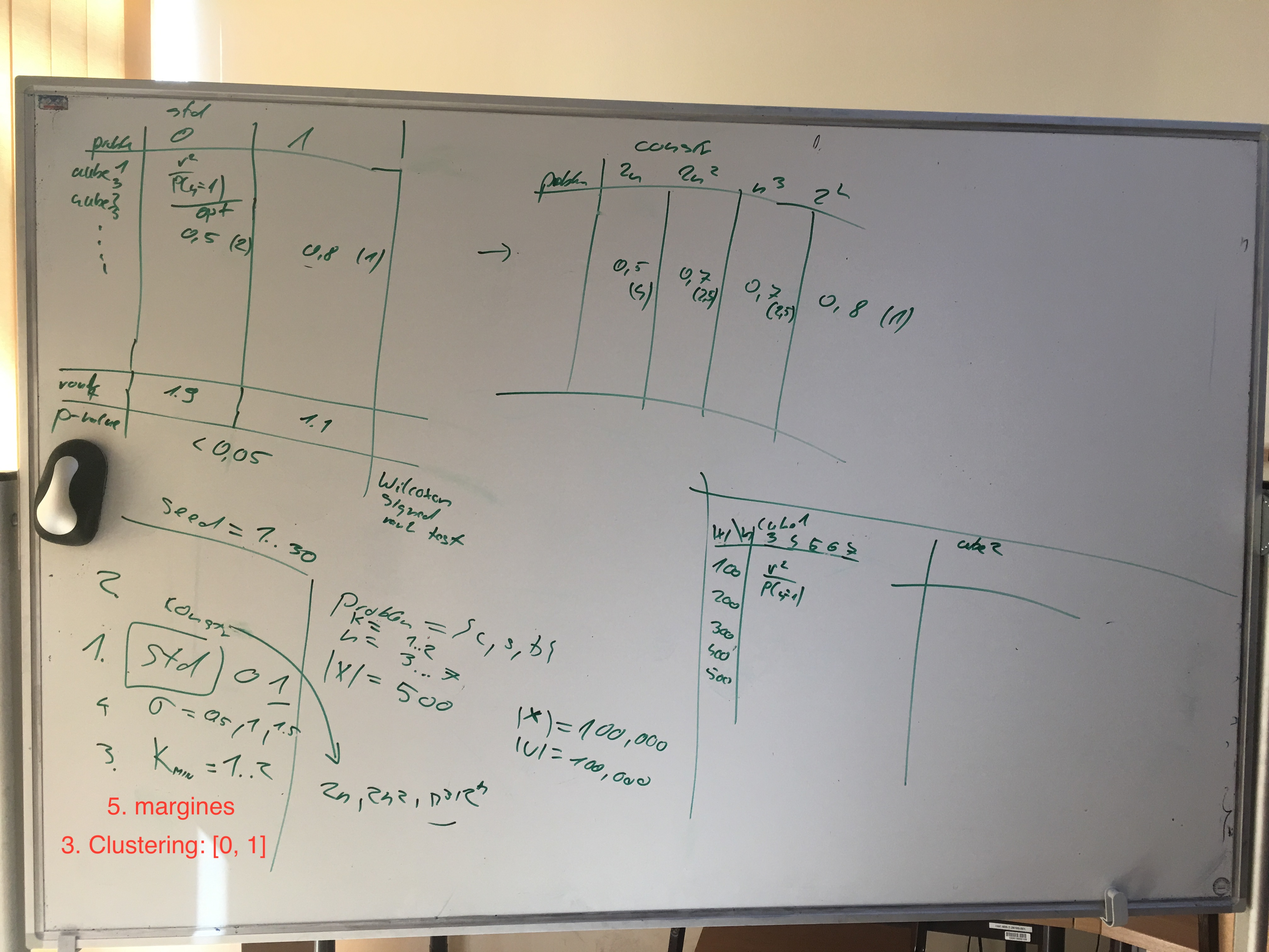
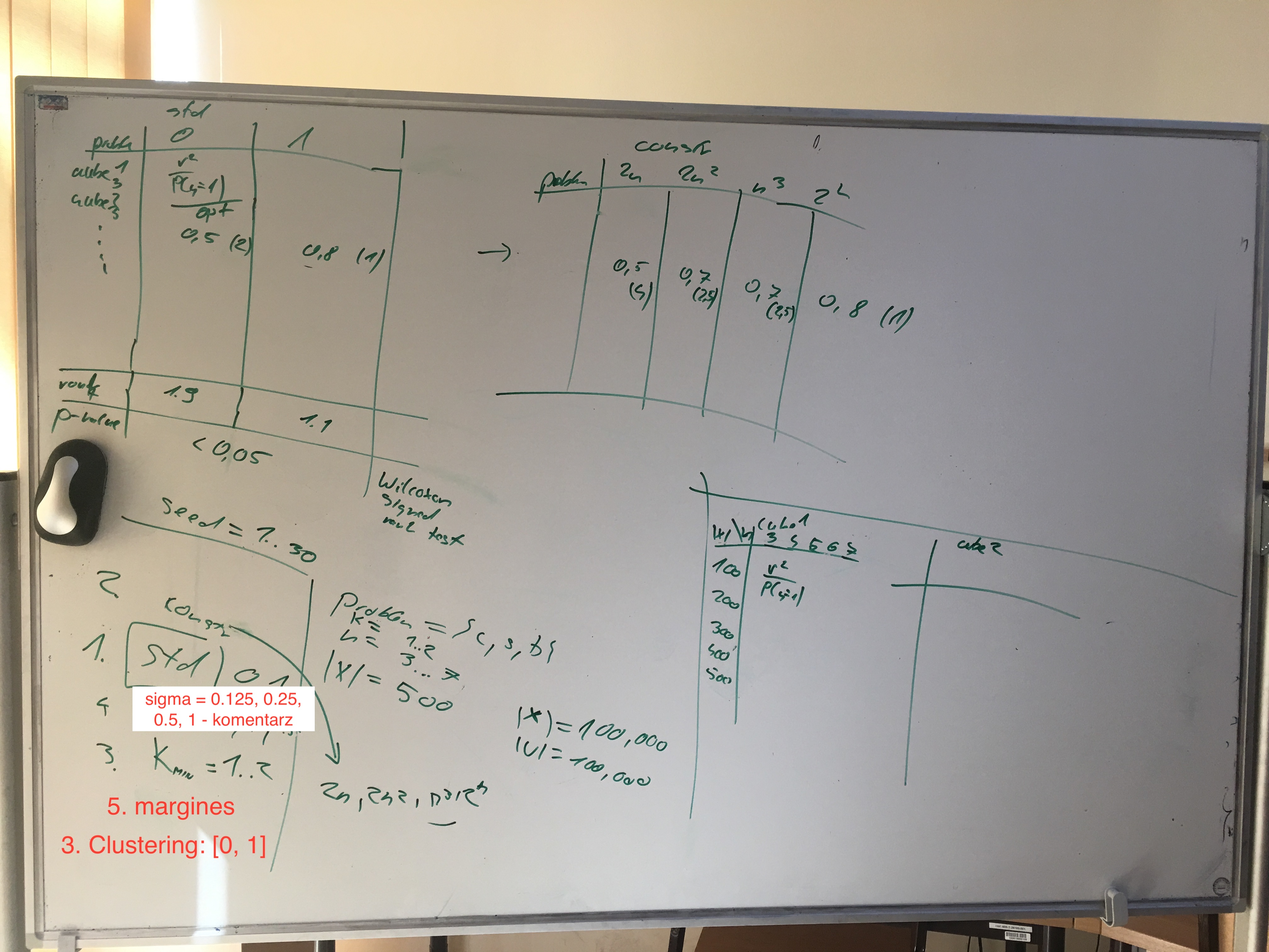
Added constraints generator and fixed f_2pn function

Changed region(s): [[0.0938, 0.7149, 0.25, 0.7771]]

diff --git a/scripts/utils/latexify.py b/scripts/utils/latexify.py
@@ -1,9 +1,9 @@
 from collections import namedtuple
-
 import pandas as pd
 from functools import reduce
-
 from scripts.utils.aggregations import Aggragator
+from scripts.csv.file_helper import write_tex_table
+import sys
 
 eol = '\n'
 hline = '\hline'
@@ -75,7 +75,8 @@ class DataTable:
         return '\cellcolor[rgb]{{{color}}} {value} {pm} {error}'.format(color=self.map_to_color(norm_rank), value=value, pm=pm, error=error)
 
     def header(self):
-        return bold('problem') + sep + reduce(lambda x, y: convert_attribute_value(x) + sep + convert_attribute_value(y), self.attribute_values)
+        attributes = list(map(lambda x: convert_attribute_value(x), self.attribute_values))
+        return bold('problem') + sep + reduce(lambda x, y: x + sep + y, attributes)
 
     def top_caption(self, name, cols):
         return '\\hline\n \multicolumn{{{count}}}{{{alignment}}}{{{name}}}'.format(count=cols, alignment='|c|', name=bold(name))
@@ -188,7 +189,7 @@ class Tabular(Environment):
             Environment.body.fset(self, value)
 
 
-Experiment = namedtuple('Experiment', ['experiment', 'benchmark_mode', 'attribute', 'caption', 'label', 'header'])
+Experiment = namedtuple('Experiment', ['experiment', 'benchmark_mode', 'attribute', 'header'])
 
 
 def table(experiment: Experiment):
@@ -201,19 +202,22 @@ def table(experiment: Experiment):
     tabular = Tabular()
     tabular.body = data_table
 
-    table = Table()
-    table.label.value = experiment.label
-    table.caption.value = experiment.caption
-    table.body = tabular
+    document = tabular.build()
 
-    centering = Centering()
-    centering.body = table
-    print(centering.build())
+    print(document)
+    label = 'experiment{}'.format(experiment.experiment)
+    if len(sys.argv) > 1:
+        write_tex_table(filename=label, data=document, path=sys.argv[1])
+    else:
+        write_tex_table(filename=label, data=document)
 
 
-experiment1 = Experiment(experiment=1, benchmark_mode=False, attribute='standardized', caption='Wpływ standaryzacji', label='experiment1', header='Standaryzacja')
-# experiment2 = Experiment(experiment=2, benchmark_mode=False, attribute='standardized', caption='', label='')
-# experiment3 = Experiment(experiment=3, benchmark_mode=False, attribute='standardized', caption='', label='')
+experiment1 = Experiment(experiment=1, benchmark_mode=False, attribute='standardized', header='Standaryzacja')
+experiment2 = Experiment(experiment=2, benchmark_mode=False, attribute='constraints_generator',  header='Liczba ograniczeń')
+experiment3 = Experiment(experiment=3, benchmark_mode=False, attribute='clustering', header='kmin')
+experiment4 = Experiment(experiment=4, benchmark_mode=False, attribute='sigma', header='sigma')
+experiment5 = Experiment(experiment=5, benchmark_mode=False, attribute='margin', header='Margines')
+
 # experiment4 = Experiment(experiment=4, benchmark_mode=False, attribute='standardized', caption='', label='')
 # experiment5 = Experiment(experiment=5, benchmark_mode=False, attribute='standardized', caption='', label='')
 table(experiment=experiment1)

diff --git a/scripts/cmaes/runner.py b/scripts/cmaes/runner.py
@@ -17,12 +17,11 @@ class AlgorithmRunner:
 
     @property
     def sql(self):
-        return "select count(*) from experiments where constraints_generator=? and margin=? and sigma=? and k=? and n=? and seed=? and name=? and clustering=? and standardized=?"
+        return "select count(*) from experiments where constraints_generator=? and margin=? and sigma=? and k=? and n=? and seed=? and name=? and clustering=? and standardized=? and experiment_n=?"
 
     def check_if_table_is_empty(self, database: Database):
-        check_if_table_exists_query = "select count(*), * from main.experiments"
-        check_if_table_exists = len(database.engine.execute(check_if_table_exists_query).fetchone())
-        return check_if_table_exists > 1
+        check_if_table_exists = database.engine.execute("select count(*) from main.experiments").fetchone()[0]
+        return check_if_table_exists > 0
 
     def filter_algorithms(self, experiments: list, database: Database) -> list:
         if not self.check_if_table_is_empty(database=database):
@@ -36,7 +35,7 @@ class AlgorithmRunner:
             if exists == 0:
                 filtered.append(algorithm)
             else:
-                log.info("Experiment already exists.")
+                log.info("Experiment already exists: {}".format(algorithm))
         return filtered
 
     def convert_to_sql_params(self, algorithm_params: dict):
@@ -48,7 +47,8 @@ class AlgorithmRunner:
                 algorithm_params['seed'],
                 algorithm_params['model_name'],
                 algorithm_params['clustering_k_min'],
-                algorithm_params['scaler'] is not None)
+                algorithm_params['scaler'] is not None,
+                algorithm_params['experiment_n'])
 
     def data_source(self, constraints_generator: callable = cg.f_2n, sigma0: float = 1,
                     margin: float = 1.1, scaler: [StandardScaler, None] = None,
@@ -115,5 +115,5 @@ class AlgorithmRunner:
 
 
 runner = AlgorithmRunner()
-experiments = flat([runner.experiments_1(), runner.experiments_2(), runner.experiments_3()])
+experiments = flat([runner.experiments_1(), runner.experiments_2(), runner.experiments_3(), runner.experiments_4(), runner.experiments_5()])
 runner.run(experiments)

diff --git a/scripts/utils/aggregations.py b/scripts/utils/aggregations.py
@@ -17,12 +17,11 @@ class Aggragator:
         df = pd.read_sql_query(sql, conn)
         conn.close()
 
-        grouping_attributes = ['n_constraints', 'clustering', 'margin', 'standardized', 'sigma', 'name', 'k', 'n']
+        grouping_attributes = ['constraints_generator', 'clustering', 'margin', 'standardized', 'sigma', 'name', 'k', 'n']
 
         df2 = df.groupby(grouping_attributes).apply(self.__get_stats)
         data_frame = self.__expand_dataframes(df2, self.attribute)
         return data_frame
-
 
     def __get_stats(self, group):
         results = {
@@ -34,10 +33,11 @@ class Aggragator:
             'fn_mean': group['fn'].mean(),
             'standardized': group['standardized'].iloc[0],
             'n_constraints': group['n_constraints'].iloc[0],
+            'constraints_generator': group['constraints_generator'].iloc[0],
             'clustering': group['clustering'].iloc[0],
             'margin': group['margin'].iloc[0],
             'sigma': group['sigma'].iloc[0],
-            'name': "{}_{}_{}".format(group['name'].iloc[0], group['n'].iloc[0], group['k'].iloc[0]),
+            'model': "{}_{}_{}".format(group['name'].iloc[0], group['n'].iloc[0], group['k'].iloc[0]),
         }
         return pd.Series(results, name='metrics')
 
@@ -48,7 +48,7 @@ class Aggragator:
         return df
 
     def __expand_dataframes(self, df2, ranking_attribute: str):
-        data_frame: pd.DataFrame = df2.groupby(['name', ranking_attribute])[['f_mean', 'f_sem']].mean().unstack()
+        data_frame: pd.DataFrame = df2.groupby(['model', ranking_attribute])[['f_mean', 'f_sem']].mean().unstack()
         self.attribute_values = list(df2[self.attribute].unique())
 
         rank_keys = [('rank', key) for key in self.attribute_values]

diff --git a/scripts/cmaes/cmaes.py b/scripts/cmaes/cmaes.py
@@ -70,6 +70,8 @@ class CMAESAlgorithm:
         w = np.reshape(w, newshape=(self.__n_constraints, -1)).T
         w0 = w[-1:]
         w = w[:-1]
+        log.debug(w)
+        log.debug(w0)
 
         # recall
         card_b, tp = self.__train_X.shape[0], self.matches_constraints(self.__train_X, w, w0).sum()
@@ -85,7 +87,7 @@ class CMAESAlgorithm:
         # f
         f = (recall ** 2) / pr_y
         f = -f
-        log.info("tp: {},\trecall: {},\tp: {},\t pr_y: {},\t\tf: {}".format(tp, p, recall, pr_y, f))
+        log.info("tp: {},\trecall: {},\tp: {},\t pr_y: {},\t\tf: {}".format(tp, recall, p, pr_y, f))
         return f
 
     def best_results(self):
@@ -284,10 +286,7 @@ class CMAESAlgorithm:
 
 
 # n = 3
-# constraints = n * 2
-# w0 = np.repeat(1, constraints)
-# seed = 2
-#
-# algorithm = CMAESAlgorithm(n_constraints=constraints, w0=w0, sigma0=1, k=1,
-#                            scaler=StandardScaler(), margin=1.1, clustering_k_min=0, model_name='cube', n=n, seed=seed, draw=True)
+# seed = 4
+# algorithm = CMAESAlgorithm(constraints_generator=cg.f_2pn.__name__, sigma0=0.1, k=1,
+#                            scaler=None, margin=1.1, clustering_k_min=0, model_name='cube', n=n, seed=seed, draw=True)
 # algorithm.experiment()

diff --git a/scripts/csv/file_helper.py b/scripts/csv/file_helper.py
@@ -9,10 +9,17 @@ class Paths(Enum):
     train = "data/train/"
     test = "data/test/"
     valid = "data/valid/"
+    tables = "latex/tables/"
 
     def path(self, filename: str):
         return self.value + filename
 
+
+def concat_filename(path: str, filename: str, extension: str) -> str:
+    path = os.path.abspath(path)
+    makedirs(path, exist_ok=True)
+    filename = path + "/" + filename + extension
+    return filename
 
 def __write_to_file(filename: str, df: pd.DataFrame):
     assert isinstance(df, pd.DataFrame)
@@ -20,7 +27,11 @@ def __write_to_file(filename: str, df: pd.DataFrame):
 
 
 def write_data_frame(df: pd.DataFrame, path: str, filename: str, extension: str='.csv'):
-    path = os.path.abspath(path)
-    makedirs(path, exist_ok=True)
-    filename = path + "/" + filename + extension
+    filename = concat_filename(path=path, filename=filename, extension=extension)
     __write_to_file(filename=filename, df=df)
+
+
+def write_tex_table(filename: str, data: str=None, extension: str='.tex', path: str=Paths.tables.value):
+    filename = path + filename + extension
+    with open(filename, "w") as file:
+        file.write(data)

diff --git a/scripts/utils/logger.py b/scripts/utils/logger.py
@@ -4,7 +4,7 @@ import logging
 class Logger:
     _logger = None
 
-    def __init__(self, logger_log_level=logging.DEBUG, console_log_level=logging.DEBUG, file_log_level=logging.INFO, name=__name__):
+    def __init__(self, logger_log_level=logging.INFO, console_log_level=logging.INFO, file_log_level=logging.INFO, name=__name__):
         self._configure_logger(logger_log_level=logger_log_level, console_log_level=console_log_level, file_log_level=file_log_level, name=name)
 
     def _configure_logger(self, logger_log_level, console_log_level, file_log_level, name):

diff --git a/scripts/utils/sampler.py b/scripts/utils/sampler.py
@@ -28,7 +28,7 @@ def cartesian(n: int, dim: int, r: float=1):
 
     phis = [np.array(i) for i in itertools.product(phis, repeat=dim-1)]
     random.shuffle(phis)
-    phis = itertools.islice(phis, n)
+    phis = itertools.islice(phis, 0, int(n))
 
     coordinates = [ct(phi, r=r) for phi in phis]
     return np.concatenate(coordinates)

diff --git a/scripts/utils/constraints_generator.py b/scripts/utils/constraints_generator.py
@@ -10,11 +10,11 @@ def f_2n2(n: int) -> int:
 
 
 def f_n3(n: int) -> int:
-    return np.power(n, 3)
+    return int(np.power(n, 3))
 
 
 def f_2pn(n: int) -> int:
-    return np.power(2, n)
+    return int(np.power(2, n))
 
 
 def generate(f_name, value):
